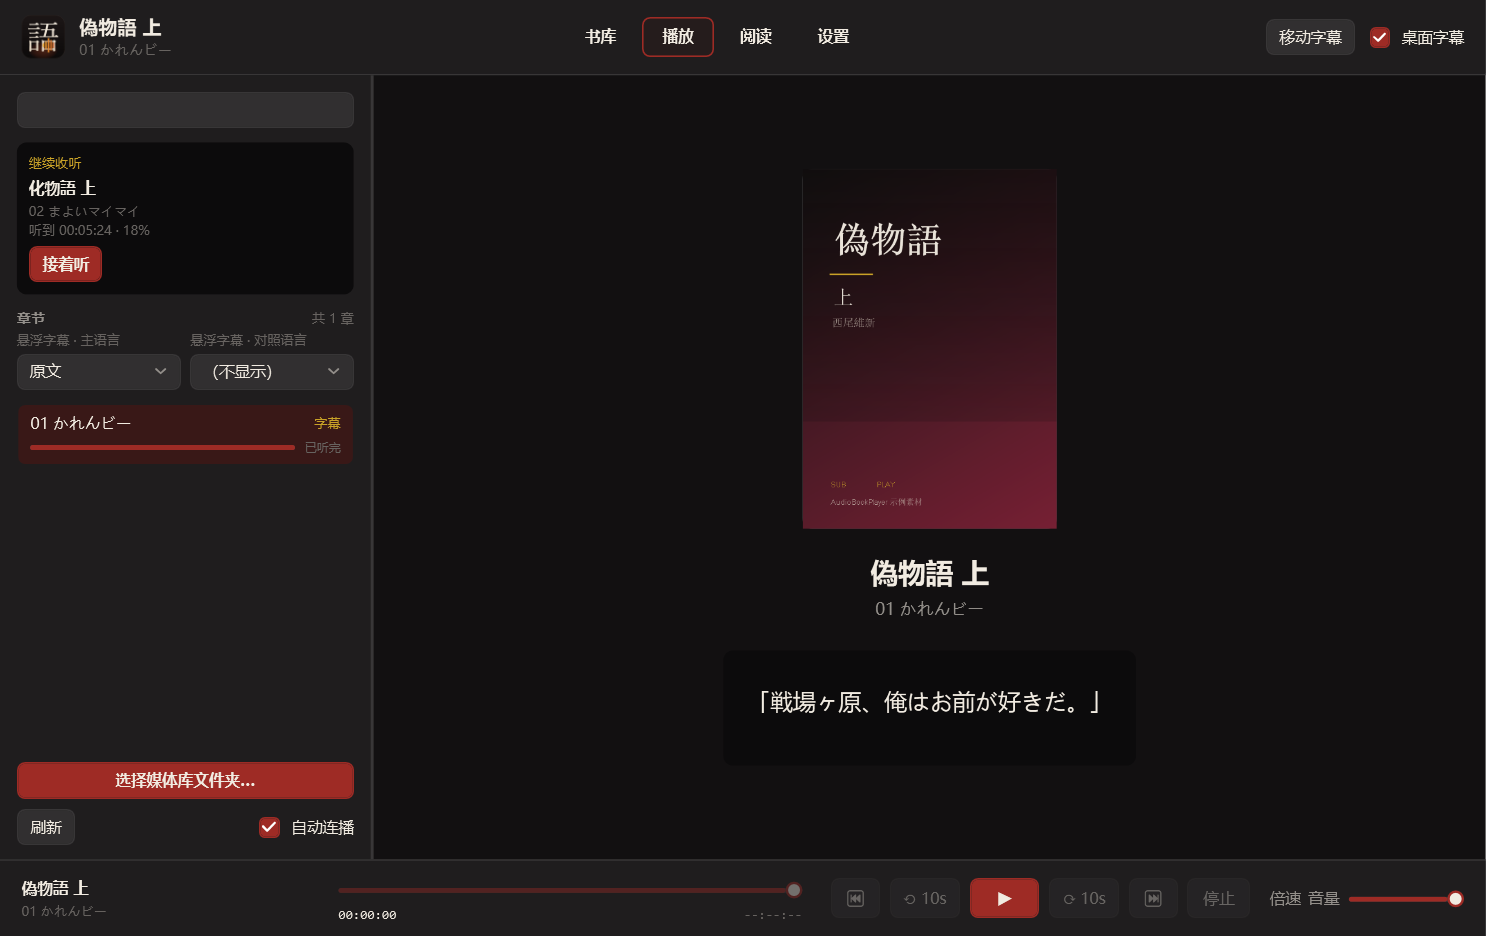
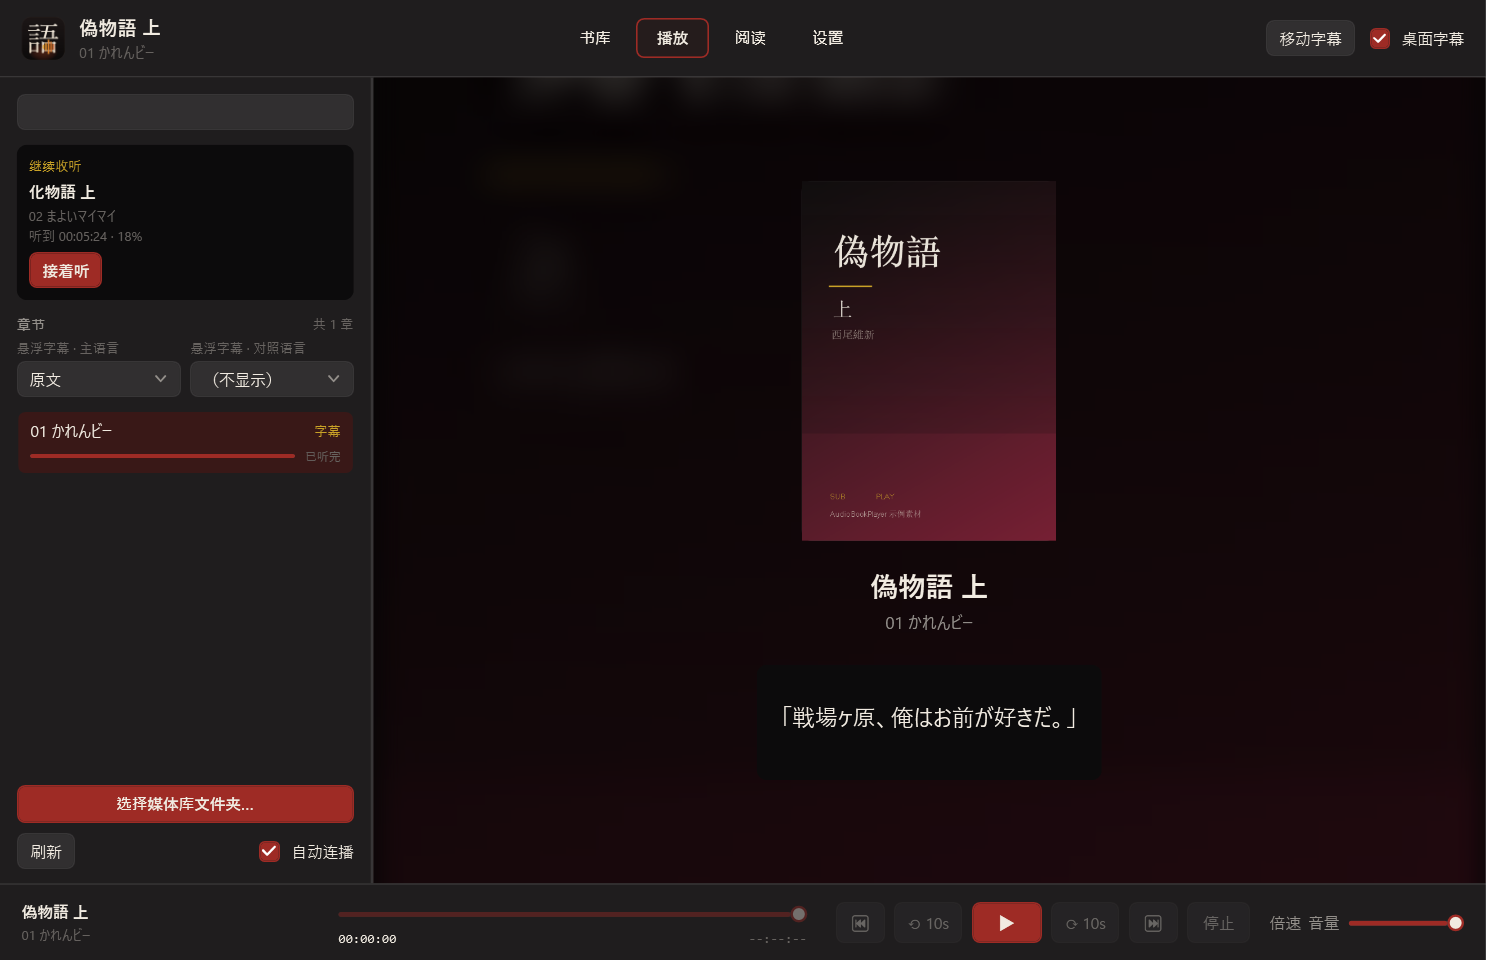
播放页背景可自定义：封面模糊铺满 / 自定义图片
设置 → 播放与记忆 → 「播放页背景」三种模式：
- 默认底色（原样）
- 封面模糊铺满：取当前书封面，缩到 40px 再双三次放大回 1280px（视觉上就是高斯模糊），
  UniformToFill 铺满播放页；换书/换章自动重建
- 自定义图片：OpenFileDialog 选一张图，同样铺满

背景上压一层 #B3000000 暗色，保证字幕和文字可读。
设置持久化（PlayerBackgroundMode / PlayerBackgroundImage）。

diff --git a/AudioBookPlayer/Views/MainWindow.xaml b/AudioBookPlayer/Views/MainWindow.xaml
@@ -396,6 +396,13 @@
                         <ColumnDefinition Width="Auto" />
                     </Grid.ColumnDefinitions>
 
+                    <!-- 播放页背景：封面模糊 / 自定义图片（最底层，上面压一层暗色保证文字可读） -->
+                    <Grid Grid.Column="0" Grid.ColumnSpan="2"
+                          Visibility="{Binding HasPlayerBackground, Converter={StaticResource BoolToVisibility}}">
+                        <Rectangle Fill="{Binding PlayerBackgroundBrush}" />
+                        <Rectangle Fill="#B3000000" />
+                    </Grid>
+
                     <!-- 文件内章节（m4b 的 chpl），点了直接跳过去 -->
                     <Border Grid.Column="1" Width="260" Margin="0,20,20,20" Padding="12"
                             Background="{DynamicResource CardBackgroundBrush}"
@@ -608,6 +615,28 @@
                                           IsChecked="{Binding RememberPlaybackPosition}" />
                                 <CheckBox Content="启动时自动恢复上次听的那一章" Margin="0,10,0,0"
                                           IsChecked="{Binding ResumeLastOnStartup}" />
+
+                                <TextBlock Text="播放页背景" Style="{StaticResource SettingsLabelStyle}" Margin="0,18,0,6" />
+                                <Grid>
+                                    <Grid.ColumnDefinitions>
+                                        <ColumnDefinition Width="*" />
+                                        <ColumnDefinition Width="Auto" />
+                                        <ColumnDefinition Width="Auto" />
+                                    </Grid.ColumnDefinitions>
+                                    <ComboBox Grid.Column="0"
+                                              ItemsSource="{Binding BackgroundModeOptions}"
+                                              DisplayMemberPath="Label"
+                                              SelectedValuePath="Key"
+                                              SelectedValue="{Binding PlayerBackgroundMode, Mode=TwoWay}" />
+                                    <Button Grid.Column="1" Content="选择图片…" Padding="10,4" Margin="8,0,0,0"
+                                            Click="OnPickBackgroundImageClick"
+                                            Visibility="{Binding IsCustomBackground, Converter={StaticResource BoolToVisibility}}" />
+                                    <Button Grid.Column="2" Content="清除" Padding="10,4" Margin="8,0,0,0"
+                                            Click="OnClearBackgroundImageClick"
+                                            Visibility="{Binding IsCustomBackground, Converter={StaticResource BoolToVisibility}}" />
+                                </Grid>
+                                <TextBlock Style="{StaticResource HintTextStyle}" Margin="0,6,0,0" TextWrapping="Wrap"
+                                           Text="「封面模糊铺满」用当前书封面糊掉做底图；「自定义图片」选一张自己的图。文字区域会自动压暗以保证可读。" />
                             </StackPanel>
                         </Border>
 

diff --git a/AudioBookPlayer/ViewModels/MainViewModel.cs b/AudioBookPlayer/ViewModels/MainViewModel.cs
@@ -723,6 +723,164 @@ namespace AudioBookPlayer.ViewModels
             OnPropertyChanged(nameof(ZoomText));
             OnPropertyChanged(nameof(IsZoomed));
         }
+        // ---------------- 播放页背景 ----------------
+
+        /// <summary>背景模式选项（值 / 显示名）。</summary>
+        public static IReadOnlyList<(string Key, string Label)> PlayerBackgroundModes { get; } = new[]
+        {
+            ("Default", "默认底色"),
+            ("CoverBlur", "封面模糊铺满"),
+            ("Image", "自定义图片"),
+        };
+
+        public IReadOnlyList<(string Key, string Label)> BackgroundModeOptions => PlayerBackgroundModes;
+
+        private string _playerBackgroundMode = "Default";
+        private string _playerBackgroundImage = string.Empty;
+        private System.Windows.Media.ImageBrush? _playerBackgroundBrush;
+
+        /// <summary>播放页背景模式。</summary>
+        public string PlayerBackgroundMode
+        {
+            get => _playerBackgroundMode;
+            set
+            {
+                var mode = string.IsNullOrWhiteSpace(value) ? "Default" : value.Trim();
+                if (!SetProperty(ref _playerBackgroundMode, mode))
+                {
+                    return;
+                }
+
+                _settings.PlayerBackgroundMode = mode;
+                OnPropertyChanged(nameof(IsCustomBackground));
+                OnPropertyChanged(nameof(HasPlayerBackground));
+                RebuildPlayerBackground();
+                PersistSettings();
+            }
+        }
+
+        /// <summary>自定义背景图片。</summary>
+        public string PlayerBackgroundImage
+        {
+            get => _playerBackgroundImage;
+            set
+            {
+                if (!SetProperty(ref _playerBackgroundImage, value ?? string.Empty))
+                {
+                    return;
+                }
+
+                _settings.PlayerBackgroundImage = _playerBackgroundImage;
+                RebuildPlayerBackground();
+                PersistSettings();
+            }
+        }
+
+        public bool IsCustomBackground => _playerBackgroundMode == "Image";
+
+        public bool HasPlayerBackground => _playerBackgroundMode != "Default" && _playerBackgroundBrush != null;
+
+        /// <summary>播放页背景画刷（ImageBrush，已经做过模糊处理）。</summary>
+        public System.Windows.Media.ImageBrush? PlayerBackgroundBrush
+        {
+            get => _playerBackgroundBrush;
+            private set
+            {
+                _playerBackgroundBrush = value;
+                OnPropertyChanged(nameof(PlayerBackgroundBrush));
+                OnPropertyChanged(nameof(HasPlayerBackground));
+            }
+        }
+
+        /// <summary>按当前设置重建背景画刷。</summary>
+        private void RebuildPlayerBackground()
+        {
+            var mode = _playerBackgroundMode;
+
+            if (mode == "Default")
+            {
+                PlayerBackgroundBrush = null;
+                return;
+            }
+
+            var source = mode == "Image" ? _playerBackgroundImage : CurrentCoverPathForBackground();
+            if (string.IsNullOrWhiteSpace(source) || !System.IO.File.Exists(source))
+            {
+                PlayerBackgroundBrush = null;
+                return;
+            }
+
+            try
+            {
+                var bitmap = CreateBlurredImage(source);
+                if (bitmap == null)
+                {
+                    PlayerBackgroundBrush = null;
+                    return;
+                }
+
+                var brush = new System.Windows.Media.ImageBrush(bitmap)
+                {
+                    Stretch = System.Windows.Media.Stretch.UniformToFill,
+                    AlignmentX = System.Windows.Media.AlignmentX.Center,
+                    AlignmentY = System.Windows.Media.AlignmentY.Center,
+                };
+
+                brush.Freeze();
+                PlayerBackgroundBrush = brush;
+            }
+            catch (Exception)
+            {
+                PlayerBackgroundBrush = null;
+            }
+        }
+
+        /// <summary>封面模糊模式用哪张图：优先当前书的封面。</summary>
+        private string? CurrentCoverPathForBackground() => SelectedBook?.CoverPath;
+
+        /// <summary>
+        /// 做一张"糊掉"的图：先缩到很小，再用双三次插值放大回来 —— 视觉上就是高斯模糊，
+        /// 但比真的跑模糊快得多（这个技巧做背景足够）。
+        /// </summary>
+        private static System.Windows.Media.Imaging.BitmapImage? CreateBlurredImage(string path)
+        {
+            using var source = System.Drawing.Image.FromFile(path);
+
+            const int smallWidth = 40;
+            var smallHeight = Math.Max(1, (int)(smallWidth * (double)source.Height / source.Width));
+
+            using var small = new System.Drawing.Bitmap(smallWidth, smallHeight);
+            using (var graphics = System.Drawing.Graphics.FromImage(small))
+            {
+                graphics.InterpolationMode = System.Drawing.Drawing2D.InterpolationMode.HighQualityBilinear;
+                graphics.PixelOffsetMode = System.Drawing.Drawing2D.PixelOffsetMode.HighQuality;
+                graphics.DrawImage(source, 0, 0, smallWidth, smallHeight);
+            }
+
+            const int bigWidth = 1280;
+            var bigHeight = Math.Max(1, (int)(bigWidth * (double)small.Height / small.Width));
+
+            using var big = new System.Drawing.Bitmap(bigWidth, bigHeight);
+            using (var graphics = System.Drawing.Graphics.FromImage(big))
+            {
+                graphics.InterpolationMode = System.Drawing.Drawing2D.InterpolationMode.HighQualityBicubic;
+                graphics.PixelOffsetMode = System.Drawing.Drawing2D.PixelOffsetMode.HighQuality;
+                graphics.DrawImage(small, 0, 0, bigWidth, bigHeight);
+            }
+
+            // 转成 WPF 的位图（走 PNG 内存流，OnLoad 立刻读入，不占文件句柄）
+            using var stream = new System.IO.MemoryStream();
+            big.Save(stream, System.Drawing.Imaging.ImageFormat.Png);
+            stream.Position = 0;
+
+            var image = new System.Windows.Media.Imaging.BitmapImage();
+            image.BeginInit();
+            image.CacheOption = System.Windows.Media.Imaging.BitmapCacheOption.OnLoad;
+            image.StreamSource = stream;
+            image.EndInit();
+            image.Freeze();
+            return image;
+        }
         // ---------------- 界面字体 ----------------
 
         /// <summary>内置默认界面字体（和主题资源里的初值一致）。</summary>
@@ -745,7 +903,9 @@ namespace AudioBookPlayer.ViewModels
                 ApplyUiFont();
                 OnPropertyChanged(nameof(UiFontDisplay));
                 OnPropertyChanged(nameof(IsDefaultUiFont));
-                _settings.UiFontFamilyName = name;
+                _settings.PlayerBackgroundMode = _playerBackgroundMode;
+            _settings.PlayerBackgroundImage = _playerBackgroundImage;
+            _settings.UiFontFamilyName = name;
                 PersistSettings();
             }
         }
@@ -1750,6 +1910,9 @@ namespace AudioBookPlayer.ViewModels
 
             ResetPositionDisplay();
             LoadEmbeddedChapters(entry);
+
+            // 换章 / 换书后封面可能变了，重建播放页背景
+            RebuildPlayerBackground();
 
             if (entry.SubtitleTracks.Count > 0)
             {
@@ -2821,6 +2984,8 @@ namespace AudioBookPlayer.ViewModels
             Overlay.FontFamilyName = _settings.FontFamilyName;
             Overlay.FontSize = _settings.FontSize;
             Overlay.FontWeightName = _settings.FontWeightName;
+            _playerBackgroundMode = string.IsNullOrWhiteSpace(_settings.PlayerBackgroundMode) ? "Default" : _settings.PlayerBackgroundMode;
+            _playerBackgroundImage = _settings.PlayerBackgroundImage ?? string.Empty;
             _uiFontName = _settings.UiFontFamilyName ?? string.Empty;
             ApplyUiFont();
             Overlay.ForegroundHex = _settings.ForegroundHex;

diff --git a/AudioBookPlayer/Views/MainWindow.xaml.cs b/AudioBookPlayer/Views/MainWindow.xaml.cs
@@ -238,6 +238,44 @@ namespace AudioBookPlayer.Views
                 apply(text.Trim());
             }
         }
+        /// <summary>选一张自定义背景图。</summary>
+        private void OnPickBackgroundImageClick(object sender, RoutedEventArgs e)
+        {
+            var viewModel = ViewModel;
+            if (viewModel == null)
+            {
+                return;
+            }
+
+            var dialog = new Microsoft.Win32.OpenFileDialog
+            {
+                Title = "选择播放页背景图片",
+                Filter = "图片|*.png;*.jpg;*.jpeg;*.bmp;*.gif|所有文件|*.*",
+                CheckFileExists = true,
+            };
+
+            if (dialog.ShowDialog(this) != true)
+            {
+                return;
+            }
+
+            viewModel.PlayerBackgroundImage = dialog.FileName;
+            viewModel.PlayerBackgroundMode = "Image";
+        }
+
+        /// <summary>清除自定义背景图。</summary>
+        private void OnClearBackgroundImageClick(object sender, RoutedEventArgs e)
+        {
+            var viewModel = ViewModel;
+            if (viewModel == null)
+            {
+                return;
+            }
+
+            viewModel.PlayerBackgroundImage = string.Empty;
+            viewModel.PlayerBackgroundMode = "Default";
+        }
+
         /// <summary>界面字体恢复默认。</summary>
         private void OnResetUiFontClick(object sender, RoutedEventArgs e)
         {

diff --git a/AudioBookPlayer/Core/AppSettings.cs b/AudioBookPlayer/Core/AppSettings.cs
@@ -101,6 +101,11 @@ namespace AudioBookPlayer.Core
         /// <summary>首选副字幕语言代码（"__none__"=不显示副字幕）。</summary>
         public string PreferredSecondaryLanguage { get; set; } = "__none__";
 
+        /// <summary>播放页背景：Default=默认底色 / CoverBlur=封面模糊铺满 / Image=自定义图片。</summary>
+        public string PlayerBackgroundMode { get; set; } = "Default";
+
+        /// <summary>自定义背景图片路径（PlayerBackgroundMode=Image 时生效）。</summary>
+        public string PlayerBackgroundImage { get; set; } = string.Empty;
         /// <summary>界面字体（空 = 用内置默认）。</summary>
         public string UiFontFamilyName { get; set; } = string.Empty;
         /// <summary>扩展字体文件夹：把 .ttf / .otf 丢进去，重启后就能在字幕字体里选（留空则用数据目录下的 fonts）。</summary>

diff --git a/AudioBookPlayer/README.md b/AudioBookPlayer/README.md
@@ -125,6 +125,19 @@
 
 自检里有一条"原速时一次都不写 SpeedRatio"，防止以后有人图方便又把它加回去。
 
+### 播放页背景
+
+设置 → 播放与记忆 → 「播放页背景」三种模式：
+
+* **默认底色** —— 和原来一样
+* **封面模糊铺满** —— 取当前书的封面，缩到很小再放回来（视觉上就是高斯模糊），铺满整个播放页；
+  换书/换章会自动更新
+* **自定义图片** —— 选一张你自己的图，同样铺满
+
+背景上用一层半透明暗色压住，保证字幕和文字仍然清楚。
+
+> 模糊的实现是"缩小 → 双三次放大"，比真的跑高斯模糊快得多，做背景完全够用。
+
 ### 任务栏缩略图（像网易云那样）
 
 鼠标移到任务栏图标上，会看到一张小卡片：
